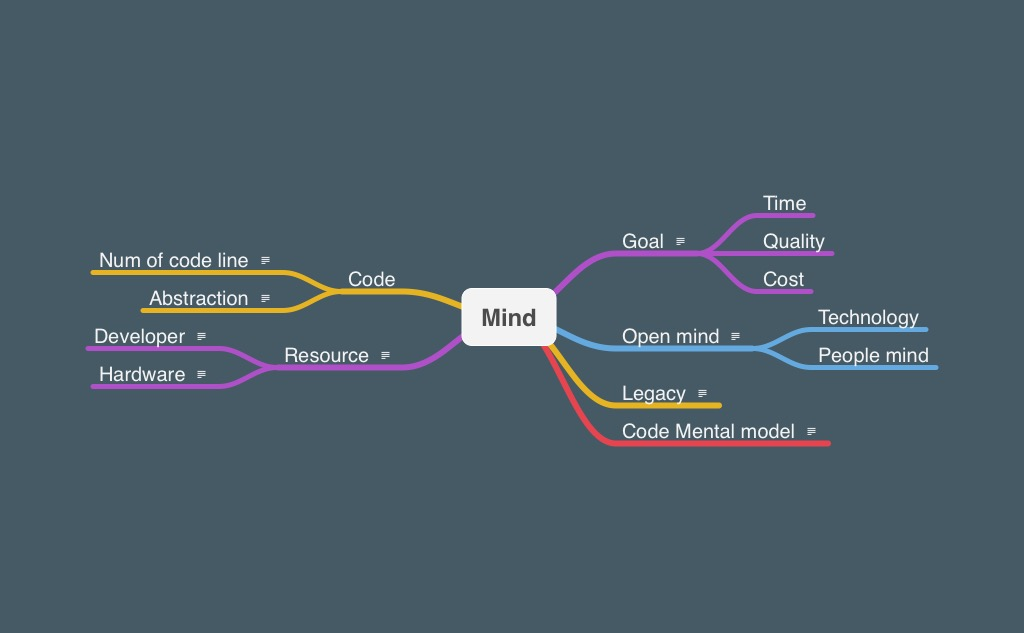
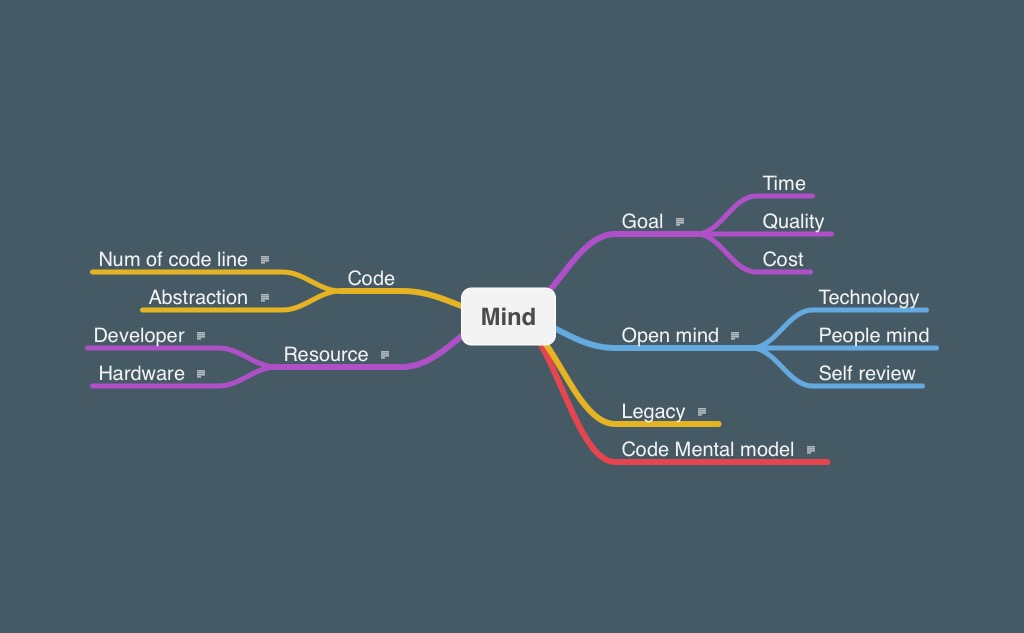
update info

diff --git a/Lesson 1/1.1 Prepare Your Mind/1.Prepare Your Mind.md b/Lesson 1/1.1 Prepare Your Mind/1.Prepare Your Mind.md
@@ -16,11 +16,14 @@
 ## Open mind
 
 - Teknologi berkembang cepat, tapi pemikiran orang berubah secara perlahan  
-- Orang tidak mudah langsung menerima sebuah idea
+- Orang tidak mudah langsung menerima sebuah idea  
+- Selalu instropeksi diri dan self review untuk tahu apa kelebihan dan kekurangan
 
 - Technology
 
 - People mind
+
+- Self review
 
 ## Legacy
 
